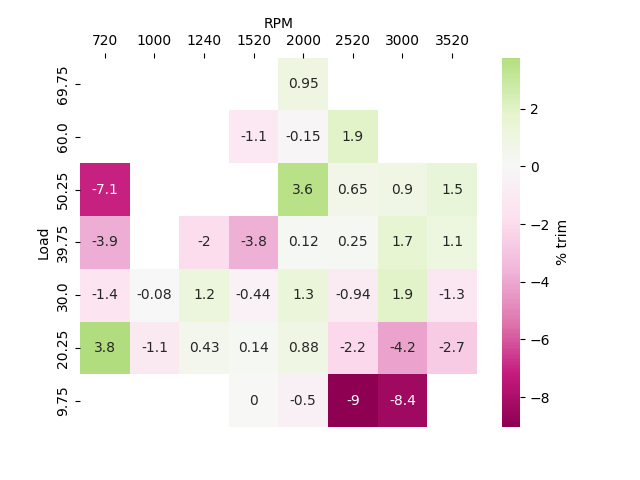
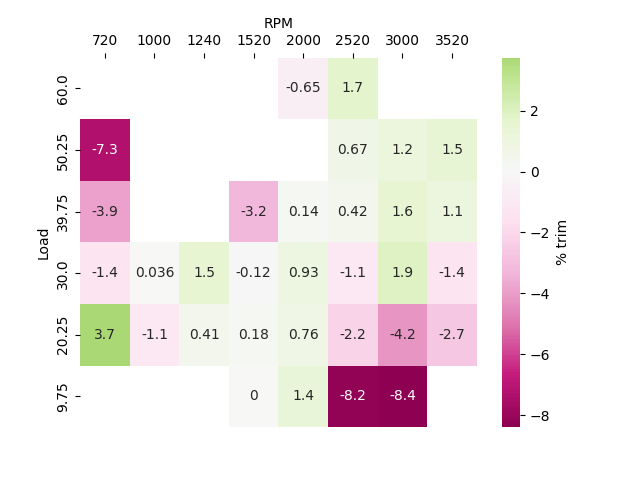
Add non-quantized (continuous) heatmap support

diff --git a/src/heatmap.py b/src/heatmap.py
@@ -21,8 +21,52 @@ def calc_ranges(ary, max):
 			buckets[v] = [(ary[i-1]+ary[i])/2, max]
 	return buckets
 
+def continuous_heatmap(lc):
+	lc['load'] = lc['load'].round(1)
+	heatmap = lc.pivot_table(index='load', columns='rpm', values='fr')
+	return heatmap.dropna(how='all', axis=0).dropna(how='all', axis=1)
+
 def distance(x0, y0, x1, y1):
 	return math.hypot(x1-x0, y1-y0)
+
+def quantized_heatmap(lc, args):
+	# create bucket ranges
+	rpms = calc_ranges([720, 1000, 1240, 1520, 2000, 2520, 3000, 3520, 4000, 4520, 5000, 5520, 6000, 6520], 10000)
+	loads = calc_ranges([9.75, 20.25, 30, 39.75, 50.25, 60, 69.75, 80.25, 90, 99.75, 110.25, 120, 140.25, 159.75], 300)
+	#loads = calc_ranges([9.75, 20.25, 30, 39.75, 50.25, 60, 69.75, 80.25, 90, 99.75, 110.25, 140.25, 150, 168])
+
+	# sort lambda control (fr/frm) into buckets
+	frdata={}
+	for lk,lv in loads.items():
+		frdata[lk]={}
+		for rk,rv in rpms.items():
+			query = f"{rv[0]} <= @lc.rpm <= {rv[1]} & {lv[0]} <= @lc.load <= {lv[1]}"
+			res = lc.query(query).copy()
+			if len(res.index) >= (args.min_samples, 1)[args.no_filter]: # ternary is (false, true)
+				# size of cell, center to corner
+				cellradius = distance(lv[0], rv[0], lv[1], rv[1])/2
+				# find distance to cell center
+				# FIXME: this is not right for cells at edges of map, but we have to weight data off the map somehow
+				res['distance'] = res.apply(lambda row: distance(row.load, row.rpm, lk, rk), axis=1)
+				# Weight is proportional to closeness to center: distance = 0 has highest weight
+				# Don't let weights get negative due to weird radius calcs
+				res['weight'] = np.maximum((cellradius-res.distance)/cellradius, 0.1)
+				mean = res.fr.mean()
+				wa = np.average(res.fr, weights = res.weight)
+				# pick mean or weighted average
+				data = (wa, mean)[args.use_unweighted_mean]
+				frdata[lk][rk] = round(data, 3)
+				if args.verbose>1:
+					print(res.to_string())
+				if args.verbose:
+					print(f"[{lk},{rk}] mean:{round(mean, 3)} wa:{round(wa, 3)} diff:{round(abs(mean-wa), 3)}")
+	heatmap = pd.DataFrame(frdata). \
+		dropna(how='all', axis=0). \
+		dropna(how='all', axis=1). \
+		sort_index(axis=0, ascending=True). \
+		sort_index(axis=1, ascending=True).T
+
+	return heatmap
 
 def main():
 	parser = argparse.ArgumentParser(description='Create trim heatmap for KFKHFM based on fr/frm datalog')
@@ -33,9 +77,13 @@ def main():
 	parser.add_argument('-r', '--rpm-filter', type=int, default=100, help='change in RPM which is still "constant" RPM (100)')
 	parser.add_argument('-m', '--maf-filter', type=float, default=10, help='change in MAF which is still "constant" MAF (10)')
 
+	parser.add_argument('-n', '--no-filter', action='store_true', help='disable filter (default is enabled)')
+
 	parser.add_argument('-s', '--min-samples', type=int, default=10, help='minimum number of samples required to generate a cell (10)')
-	parser.add_argument('-f', '--use-fr', action='store_true', help='use "fr" instead of "frm" (the default)')
-	parser.add_argument('-u', '--use-unweighted-mean', action='store_true', help='use unweighted mean instead of weighted average (the default)')
+	parser.add_argument('-f', '--use-fr', action='store_true', help='use "fr" instead of "frm" (default is frm)')
+
+	parser.add_argument('-u', '--use-unweighted-mean', action='store_true', help='use unweighted mean instead of weighted average (default is weighted))')
+	parser.add_argument('-c', '--continuous', action='store_true', help='show continuous instead of bucketed heatmap (default is bucketed)')
 
 	parser.add_argument('-v', '--verbose', action='count', default=0)
 
@@ -104,55 +152,21 @@ def main():
 	lc['load_delta'] = lc.load.rolling(window=args.window).apply(lambda x: x.max() - x.min())
 	lc['maf_delta'] = lc.maf.rolling(window=args.window).apply(lambda x: x.max() - x.min())
 
-	# tag rows we want to use based on source data
-	lc['use'] = \
-		lc.rpm_delta.notnull()  & (lc.rpm_delta  <= args.rpm_filter)  & \
-		lc.load_delta.notnull() & (lc.load_delta <= args.load_filter) & \
-		lc.maf_delta.notnull()  & (lc.maf_delta  <= args.maf_filter)
+	if not args.no_filter:
+		# tag rows we want to use based on source data
+		lc['use'] = \
+			lc.rpm_delta.notnull()  & (lc.rpm_delta  <= args.rpm_filter)  & \
+			lc.load_delta.notnull() & (lc.load_delta <= args.load_filter) & \
+			lc.maf_delta.notnull()  & (lc.maf_delta  <= args.maf_filter)
 
-	#print(lc[(abs(lc.fr)>5) & (lc.rpm_delta > 0)].to_string())
+		#print(lc[(abs(lc.fr)>5) & (lc.rpm_delta > 0)].to_string())
 
-	# throw out data that moves too much
-	#print(lc.to_string())
-	lc = lc[(lc['use'])]
-	#print(lc.to_string())
+		# throw out data that moves too much
+		#print(lc.to_string())
+		lc = lc[(lc['use'])]
+		#print(lc.to_string())
 
-	# create bucket ranges
-	rpms = calc_ranges([720, 1000, 1240, 1520, 2000, 2520, 3000, 3520, 4000, 4520, 5000, 5520, 6000, 6520], 10000)
-	loads = calc_ranges([9.75, 20.25, 30, 39.75, 50.25, 60, 69.75, 80.25, 90, 99.75, 110.25, 120, 140.25, 159.75], 300)
-	#loads = calc_ranges([9.75, 20.25, 30, 39.75, 50.25, 60, 69.75, 80.25, 90, 99.75, 110.25, 140.25, 150, 168])
-
-	# sort lambda control (fr/frm) into buckets
-	frdata={}
-	for lk,lv in loads.items():
-		frdata[lk]={}
-		for rk,rv in rpms.items():
-			query = f"{rv[0]} <= @lc.rpm <= {rv[1]} & {lv[0]} <= @lc.load <= {lv[1]}"
-			res = lc.query(query).copy()
-			if len(res.index) >= args.min_samples:
-				# size of cell, center to corner
-				cellradius = distance(lv[0], rv[0], lv[1], rv[1])/2
-				# find distance to cell center
-				# FIXME: this is not right for cells at edges of map, but we have to weight data off the map somehow
-				res['distance'] = res.apply(lambda row: distance(row.load, row.rpm, lk, rk), axis=1)
-				# Weight is proportional to closeness to center: distance = 0 has highest weight
-				# Don't let weights get negative due to weird radius calcs
-				res['weight'] = np.maximum((cellradius-res.distance)/cellradius, 0.1)
-				mean = res.fr.mean()
-				wa = np.average(res.fr, weights = res.weight)
-				# pick mean or weighted average
-				data = (wa, mean)[args.use_unweighted_mean]
-				frdata[lk][rk] = round(data, 3)
-				if args.verbose>1:
-					print(res.to_string())
-				if args.verbose:
-					print(f"[{lk},{rk}] mean:{round(mean, 3)} wa:{round(wa, 3)} diff:{round(abs(mean-wa), 3)}")
-
-	heatmap = pd.DataFrame(frdata). \
-		dropna(how='all', axis=0). \
-		dropna(how='all', axis=1). \
-		sort_index(axis=0, ascending=True). \
-		sort_index(axis=1, ascending=True).T
+	heatmap = (quantized_heatmap(lc, args), continuous_heatmap(lc))[args.continuous]
 
 	if args.text:
 		print(heatmap.sort_index(axis=0, ascending=False).to_string())
@@ -173,7 +187,7 @@ def main():
 	ax.xaxis.set_ticks_position('top')
 	ax.xaxis.set_label_position('top')
 
-	sbs.heatmap(heatmap, annot=True, center=0, cmap='PiYG', cbar_kws={'label': '% trim'}).invert_yaxis()
+	sbs.heatmap(heatmap, annot=(not args.continuous), center=0, cmap='PiYG', cbar_kws={'label': '% trim'}).invert_yaxis()
 
 	plt.xlabel('RPM')
 	plt.ylabel('Load')

diff --git a/README.md b/README.md
@@ -60,9 +60,17 @@ For pure text output, use `--csv` or `--text`
 
 ## Adjusting the filters
 
-* Choose `frm` instead of `fr` with the `-fr` option
 * Adjust the "previous samples" amount with the `-w WINDOW` option
 * Adjust the "similar" load filter with the `-l LOAD_FILTER` option
 * Adjust the "similar" RPM filter with the `-r RPM_FILTER` option
 * Adjust the "minimum number of samples" filter with the `-s MIN_SAMPLES` option
-* Choose an unweighted mean using the `-u` option. The default is to weight the samples by their distance from the "center" of their cell.
+* Disable the filter entirely with `-n`
+
+## Adjusting the heatmap
+
+* Show a continuous heatmap (instead of bucketed for KFKHFM) with `-c`
+
+![heatmap](./examples/heatmap-continuous.png)
+
+* Choose `frm` instead of `fr` with the `-fr` option
+* Choose an unweighted mean using the `-u` option. The default is to weight the samples by their distance from the "center" of their cell (does not apply to `-c`)
